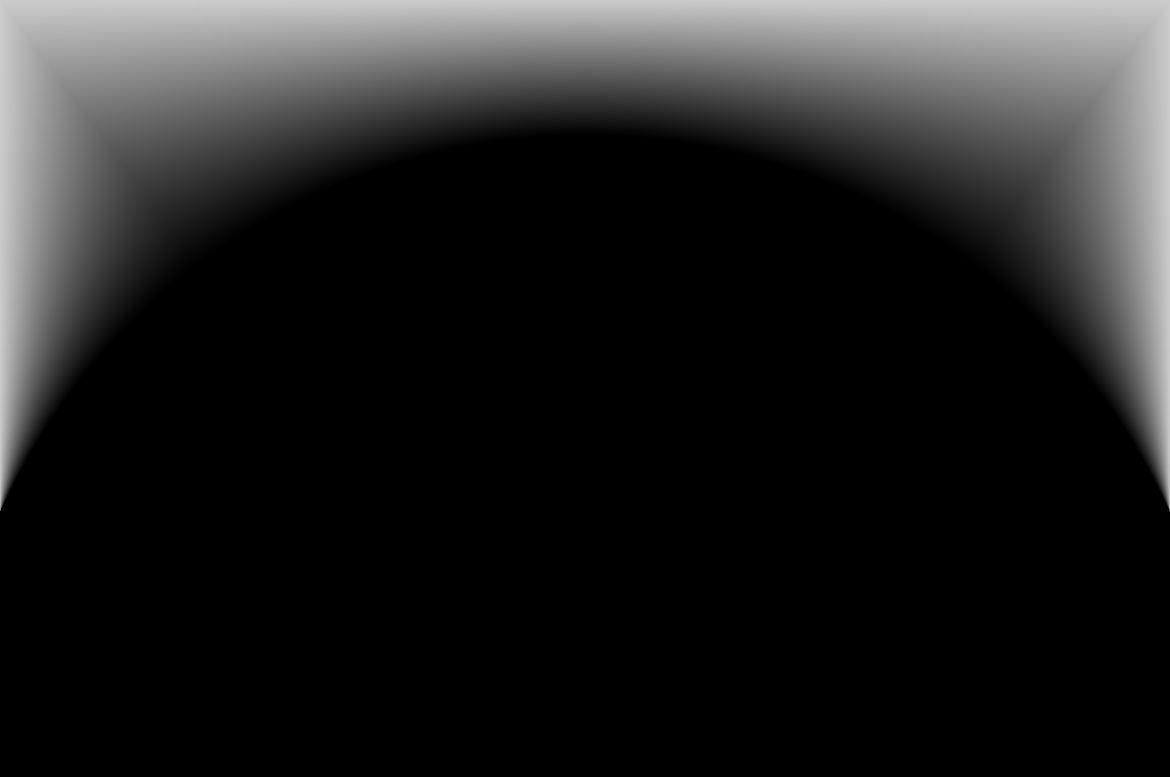
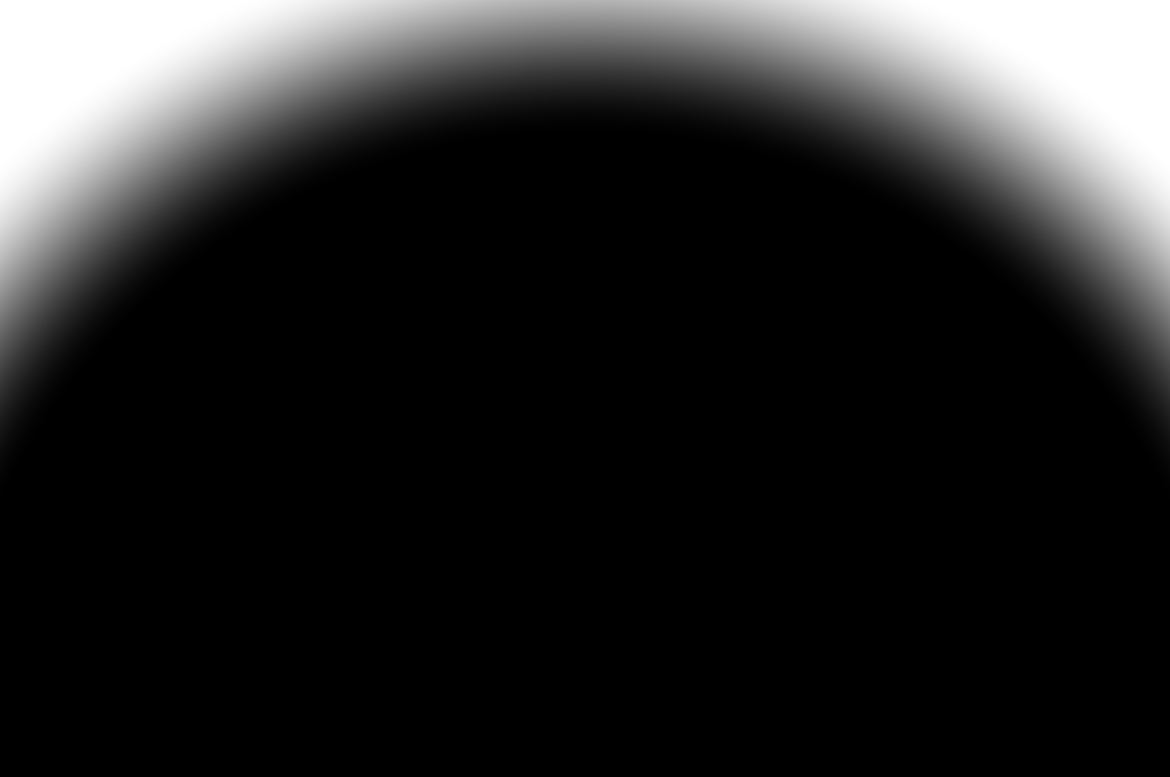
Seal dissolve back to a round arch parallel to the ring, shorter so the photo shows; Turkey Tail What It Is crowd zoomed past the ceiling (#324)
Claude-Session: https://claude.ai/code/session_01MhYC1AY8xeCEEXMzs5T9VR

diff --git a/index.html b/index.html
@@ -1006,7 +1006,7 @@ button,nav,header,h1,h2,h3,h4,h5,h6,label,summary,[role="link"],[role="button"],
 <style>html body [data-ph="lot-lab"]:not(.z1):not(.z2):not(.z3):not(.z4):not(.z5):not(.z6):not(.z7):not(.z8):not(.z9):not(.z10):not(.z11):not(.z12):not(.z13):not(.z14),html body [data-m="wy-split"] > .wy-box:nth-child(3):not(.z1):not(.z2):not(.z3):not(.z4):not(.z5):not(.z6):not(.z7):not(.z8):not(.z9):not(.z10):not(.z11):not(.z12):not(.z13):not(.z14){background:linear-gradient(rgba(5,9,13,.5),rgba(5,9,13,.66)),url("assets/science-art.svg") center / cover no-repeat !important}</style>
 <style>html body [data-ph="desk-lm"]:not(.z1):not(.z2):not(.z3):not(.z4):not(.z5):not(.z6):not(.z7):not(.z8):not(.z9):not(.z10):not(.z11):not(.z12):not(.z13):not(.z14){background:linear-gradient(rgba(0,0,0,.55),rgba(0,0,0,.7)),url("assets/photo/lm-how-made-desk.jpg") center / cover no-repeat !important}[data-ph="vintage-bottles-labels"]:not(.z1):not(.z2):not(.z3):not(.z4):not(.z5):not(.z6):not(.z7):not(.z8):not(.z9):not(.z10):not(.z11):not(.z12):not(.z13):not(.z14){background:linear-gradient(rgba(0,0,0,.6),rgba(0,0,0,.72)),url("assets/photo/vintage-bottles-labels.jpg") center / cover no-repeat !important}html body [data-ph="apothecary-shop"]:not(.z1):not(.z2):not(.z3):not(.z4):not(.z5):not(.z6):not(.z7):not(.z8):not(.z9):not(.z10):not(.z11):not(.z12):not(.z13):not(.z14){background:linear-gradient(rgba(0,0,0,.6),rgba(0,0,0,.72)),url("assets/photo/apothecary-shop.jpg") center / cover no-repeat !important}html body [data-ph="herb-jars-book"]:not(.z1):not(.z2):not(.z3):not(.z4):not(.z5):not(.z6):not(.z7):not(.z8):not(.z9):not(.z10):not(.z11):not(.z12):not(.z13):not(.z14){background:linear-gradient(rgba(0,0,0,.6),rgba(0,0,0,.72)),url("assets/photo/herb-jars-book.jpg") center / cover no-repeat !important}html body [data-ph="mushroom-cabinet"]:not(.z1):not(.z2):not(.z3):not(.z4):not(.z5):not(.z6):not(.z7):not(.z8):not(.z9):not(.z10):not(.z11):not(.z12):not(.z13):not(.z14){background:linear-gradient(rgba(0,0,0,.6),rgba(0,0,0,.72)),url("assets/photo/forest-meditation-yellow.jpg") center / cover no-repeat !important}html body [data-ph="mushroom-jars-lab"]:not(.z1):not(.z2):not(.z3):not(.z4):not(.z5):not(.z6):not(.z7):not(.z8):not(.z9):not(.z10):not(.z11):not(.z12):not(.z13):not(.z14){background:linear-gradient(rgba(0,0,0,.6),rgba(0,0,0,.72)),url("assets/photo/football-team-night.jpg") center 35% / cover no-repeat !important}html body [data-ph="red-hanging-lab"]:not(.z1):not(.z2):not(.z3):not(.z4):not(.z5):not(.z6):not(.z7):not(.z8):not(.z9):not(.z10):not(.z11):not(.z12):not(.z13):not(.z14){background:linear-gradient(rgba(0,0,0,.6),rgba(0,0,0,.72)),url("assets/photo/couple-tent-pourover.jpg") center / cover no-repeat !important}html body [data-ph="lab-people"]:not(.z1):not(.z2):not(.z3):not(.z4):not(.z5):not(.z6):not(.z7):not(.z8):not(.z9):not(.z10):not(.z11):not(.z12):not(.z13):not(.z14){background:linear-gradient(rgba(0,0,0,.6),rgba(0,0,0,.72)),url("assets/photo/lab-people.jpg") center / cover no-repeat !important}html body [data-ph="reactors-lab"]:not(.z1):not(.z2):not(.z3):not(.z4):not(.z5):not(.z6):not(.z7):not(.z8):not(.z9):not(.z10):not(.z11):not(.z12):not(.z13):not(.z14){background:linear-gradient(rgba(0,0,0,.6),rgba(0,0,0,.72)),url("assets/photo/reactors-lab.jpg") center / cover no-repeat !important}html body [data-ph="tank-lab"]:not(.z1):not(.z2):not(.z3):not(.z4):not(.z5):not(.z6):not(.z7):not(.z8):not(.z9):not(.z10):not(.z11):not(.z12):not(.z13):not(.z14){background:linear-gradient(rgba(0,0,0,.6),rgba(0,0,0,.72)),url("assets/photo/tank-lab.jpg") center / cover no-repeat !important}html body [data-ph="river-trees"]:not(.z1):not(.z2):not(.z3):not(.z4):not(.z5):not(.z6):not(.z7):not(.z8):not(.z9):not(.z10):not(.z11):not(.z12):not(.z13):not(.z14){background-image:linear-gradient(rgba(0,0,0,.72),rgba(0,0,0,.8)),url("assets/photo/river-trees.jpg") !important;background-size:100% 100%,cover !important;background-position:center !important;background-repeat:no-repeat !important}html body [data-ph="river-aerial"]:not(.z1):not(.z2):not(.z3):not(.z4):not(.z5):not(.z6):not(.z7):not(.z8):not(.z9):not(.z10):not(.z11):not(.z12):not(.z13):not(.z14){background-image:linear-gradient(rgba(0,0,0,.72),rgba(0,0,0,.8)),url("assets/photo/river-aerial.jpg") !important;background-size:100% 100%,cover !important;background-position:center !important;background-repeat:no-repeat !important}html body [data-ph="bamboo-window-lab"]:not(.z1):not(.z2):not(.z3):not(.z4):not(.z5):not(.z6):not(.z7):not(.z8):not(.z9):not(.z10):not(.z11):not(.z12):not(.z13):not(.z14){background-image:linear-gradient(rgba(0,0,0,.72),rgba(0,0,0,.8)),url("assets/photo/meditation-sunset-hands.jpg") !important;background-size:100% 100%,cover !important;background-position:center !important;background-repeat:no-repeat !important}html body [data-m="why-slate"]:not(.z1):not(.z2):not(.z3):not(.z4):not(.z5):not(.z6):not(.z7):not(.z8):not(.z9):not(.z10):not(.z11):not(.z12):not(.z13):not(.z14){background-image:linear-gradient(rgba(0,0,0,.9),rgba(0,0,0,.94)) !important;background-size:100% 100% !important;background-position:center !important}html body [data-m="wy-split"] > .wy-box:nth-child(3):not(.z1):not(.z2):not(.z3):not(.z4):not(.z5):not(.z6):not(.z7):not(.z8):not(.z9):not(.z10):not(.z11):not(.z12):not(.z13):not(.z14):not(.z15){background:linear-gradient(#05090d,#0b141b) !important}</style>
 <style>@media (max-width:99999px){html body [data-m="hero"] div[style*="aspect-ratio"]{position:relative;z-index:0;isolation:isolate}html body [data-m="hero"] div[style*="aspect-ratio"]::before{content:"";position:absolute;left:50%;top:50%;width:150%;height:150%;transform:translate(-50%,-50%);border-radius:50%;z-index:-1;pointer-events:none;background:radial-gradient(closest-side,rgba(0,0,0,.94) 0,rgba(0,0,0,.92) 40%,rgba(0,0,0,.86) 58%,rgba(0,0,0,.7) 67%,rgba(0,0,0,.35) 80%,rgba(0,0,0,0) 100%)}}</style>
-<style>@media (max-width:99999px){html body section[data-m="hero"]:not(.z1):not(.z2):not(.z3):not(.z4):not(.z5):not(.z6):not(.z7):not(.z8):not(.z9):not(.z10):not(.z11):not(.z12):not(.z13):not(.z14){background-image:radial-gradient(circle at 50% calc(68px + 49vw),#000 0,#000 47.69vw,rgba(0,0,0,0) 49.23vw),linear-gradient(rgba(0,0,0,0) 0,rgba(0,0,0,0) calc(68px + 49vw + 161px),rgba(0,0,0,.25) calc(68px + 49vw + 201px),rgba(0,0,0,.55) calc(68px + 49vw + 236px),rgba(0,0,0,.85) calc(68px + 49vw + 266px),#000 calc(68px + 49vw + 289px),#000 100%),url("assets/photo/seal-halo-phone.png?v=3"),linear-gradient(rgba(0,0,0,.66) 0,rgba(0,0,0,.52) calc(30px + 25vw),rgba(0,0,0,0) calc(68px + 49vw)),radial-gradient(ellipse 230px 200px at 0 0,rgba(0,0,0,.6) 0,rgba(0,0,0,.42) 35%,rgba(0,0,0,.18) 70%,rgba(0,0,0,0) 100%),url("assets/photo/hero-stove-pour-ridge-v10.jpg") !important;background-size:100% 100%,100% 100%,100% calc(68px + 49vw),100% 100%,100% 100%,auto 640px !important;background-position:0 0,0 0,0 0,0 0,0 0,78% -90px !important;background-color:#000 !important;background-repeat:no-repeat !important}}</style>
+<style>@media (max-width:99999px){html body section[data-m="hero"]:not(.z1):not(.z2):not(.z3):not(.z4):not(.z5):not(.z6):not(.z7):not(.z8):not(.z9):not(.z10):not(.z11):not(.z12):not(.z13):not(.z14){background-image:radial-gradient(circle at 50% calc(68px + 49vw),#000 0,#000 47.69vw,rgba(0,0,0,0) 49.23vw),linear-gradient(rgba(0,0,0,0) 0,rgba(0,0,0,0) calc(68px + 49vw + 161px),rgba(0,0,0,.25) calc(68px + 49vw + 201px),rgba(0,0,0,.55) calc(68px + 49vw + 236px),rgba(0,0,0,.85) calc(68px + 49vw + 266px),#000 calc(68px + 49vw + 289px),#000 100%),url("assets/photo/seal-halo-phone.png?v=5"),linear-gradient(rgba(0,0,0,.66) 0,rgba(0,0,0,.52) calc(30px + 25vw),rgba(0,0,0,0) calc(68px + 49vw)),radial-gradient(ellipse 230px 200px at 0 0,rgba(0,0,0,.6) 0,rgba(0,0,0,.42) 35%,rgba(0,0,0,.18) 70%,rgba(0,0,0,0) 100%),url("assets/photo/hero-stove-pour-ridge-v10.jpg") !important;background-size:100% 100%,100% 100%,100% calc(68px + 49vw),100% 100%,100% 100%,auto 640px !important;background-position:0 0,0 0,0 0,0 0,0 0,78% -90px !important;background-color:#000 !important;background-repeat:no-repeat !important}}</style>
 <style>@media (max-width:99999px){html body .hero-cta{display:none !important}html body .hero-panel > .hero-box:nth-child(1){order:1}html body .hero-panel > .hero-pk{order:2}html body .hero-panel > .hero-box:nth-child(2){order:3}html body .hero-pk{display:block !important;border:3px solid #D4A24A;box-sizing:border-box;margin:14px auto 0;height:260px;max-width:560px;width:100%;border-radius:18px}html body [data-m="pk-dup"]{display:none !important}html body .cta-dup{display:flex !important;margin:30px 0 8px}html body section[data-screen-label="Home — mushrooms"]{padding-top:22px !important}html body section[data-m="hero"]{padding-bottom:10px !important}}</style>
 <style>@media (max-width:99999px){
 html body [data-screen-label="Shop"] [data-m="1col"]:has(> article:nth-child(8)){grid-template-columns:repeat(2,minmax(0,1fr)) !important;grid-template-rows:repeat(4,auto) !important;grid-auto-flow:column !important;gap:14px 10px !important;padding:0 8px !important}
@@ -5272,7 +5272,7 @@ html body section.clean-band.rcx-marble h2{color:#1E1A15;text-shadow:none}
 html body section.clean-band.rcx-marble p{color:#2E2820;text-shadow:none}
 html body section.clean-band.rcx-marble .cb-chips span{color:#1E1A15;background:rgba(255,255,255,.55)}
 html body section.clean-band.rcx-marble{-webkit-mask-image:linear-gradient(transparent 0,#000 60px,#000 calc(100% - 60px),transparent 100%);mask-image:linear-gradient(transparent 0,#000 60px,#000 calc(100% - 60px),transparent 100%)}
-</style><style id="clean-band-photo">html body div[data-screen-label] section.clean-band[data-cb="shop"][data-cb="shop"]{background:linear-gradient(rgba(0,0,0,.42),rgba(0,0,0,.62)),url("assets/photo/mess-counter-v2.jpg") center/cover no-repeat !important}</style><style id="research-darker">html body [data-screen-label="Shop"]>section[data-m="shop-research"][data-m="shop-research"][data-m="shop-research"]::before{background:linear-gradient(rgba(0,0,0,.9) 0,rgba(0,0,0,.88) 560px,rgba(0,0,0,.78) 900px,rgba(0,0,0,.72) 1200px),url('assets/photo/volcano-fountain.jpg') 50% 40%/140% auto no-repeat !important}</style><style id="clean-band-shop-blend">html body div[data-screen-label] section.clean-band[data-cb="shop"][data-cb="shop"]{margin:-70px 0 -90px !important;z-index:2;padding:110px 22px 120px !important;-webkit-mask-image:linear-gradient(transparent 0,#000 110px,#000 calc(100% - 120px),transparent 100%) !important;mask-image:linear-gradient(transparent 0,#000 110px,#000 calc(100% - 120px),transparent 100%) !important;pointer-events:none}html body div[data-screen-label] section.clean-band[data-cb="shop"] .cb-in{pointer-events:auto}html body div[data-screen-label="Shop"] section[data-m="pack-sec"]{position:relative;z-index:1}</style><style id="tt-whatitis">html body div[data-screen-label="Turkey Tail"] [data-ph="meditation-sunset-hands"]:not(.z1):not(.z2):not(.z3):not(.z4):not(.z5):not(.z6):not(.z7):not(.z8):not(.z9):not(.z10):not(.z11):not(.z12):not(.z13):not(.z14):not(.z15){background:linear-gradient(rgba(0,0,0,.6),rgba(0,0,0,.74)),url("assets/photo/tt-train-crowd.jpg") center 40% / cover no-repeat !important}</style><style id="clean-band-how-small">
+</style><style id="clean-band-photo">html body div[data-screen-label] section.clean-band[data-cb="shop"][data-cb="shop"]{background:linear-gradient(rgba(0,0,0,.42),rgba(0,0,0,.62)),url("assets/photo/mess-counter-v2.jpg") center/cover no-repeat !important}</style><style id="research-darker">html body [data-screen-label="Shop"]>section[data-m="shop-research"][data-m="shop-research"][data-m="shop-research"]::before{background:linear-gradient(rgba(0,0,0,.9) 0,rgba(0,0,0,.88) 560px,rgba(0,0,0,.78) 900px,rgba(0,0,0,.72) 1200px),url('assets/photo/volcano-fountain.jpg') 50% 40%/140% auto no-repeat !important}</style><style id="clean-band-shop-blend">html body div[data-screen-label] section.clean-band[data-cb="shop"][data-cb="shop"]{margin:-70px 0 -90px !important;z-index:2;padding:110px 22px 120px !important;-webkit-mask-image:linear-gradient(transparent 0,#000 110px,#000 calc(100% - 120px),transparent 100%) !important;mask-image:linear-gradient(transparent 0,#000 110px,#000 calc(100% - 120px),transparent 100%) !important;pointer-events:none}html body div[data-screen-label] section.clean-band[data-cb="shop"] .cb-in{pointer-events:auto}html body div[data-screen-label="Shop"] section[data-m="pack-sec"]{position:relative;z-index:1}</style><style id="tt-whatitis">html body div[data-screen-label="Turkey Tail"] [data-ph="meditation-sunset-hands"]:not(.z1):not(.z2):not(.z3):not(.z4):not(.z5):not(.z6):not(.z7):not(.z8):not(.z9):not(.z10):not(.z11):not(.z12):not(.z13):not(.z14):not(.z15){background:linear-gradient(rgba(0,0,0,.6),rgba(0,0,0,.74)),url("assets/photo/tt-train-crowd.jpg") 63% 100% / auto 142% no-repeat !important}</style><style id="clean-band-how-small">
 /* How To Use: a small Clean, No Mess box so the paddler behind keeps running down the page */
 html body div[data-screen-label] section.clean-band[data-cb="how"][data-cb="how"]{background:transparent !important;-webkit-mask-image:none !important;mask-image:none !important;padding:26px 28px 30px !important}
 html body div[data-screen-label] section.clean-band[data-cb="how"] .cb-in{max-width:300px;margin:0 auto;padding:22px 18px 20px;gap:9px;border:3px solid #D4A24A;border-radius:18px;box-shadow:0 10px 26px rgba(0,0,0,.55);background:linear-gradient(rgba(0,0,0,.42),rgba(0,0,0,.6)),url("assets/photo/mess-swirl.jpg") center/cover no-repeat}
@@ -5490,7 +5490,7 @@ html body [data-screen-label="About"] .ab-grid.ab-grid.ab-grid{padding:0 !import
 <style id="desk-phone">
 /* Oct 12: desktop now uses the phone layout, spread out and scaled up for a big screen */
 @media (min-width:1000px){
-html body section[data-m="hero"]:not(.z1):not(.z2):not(.z3):not(.z4):not(.z5):not(.z6):not(.z7):not(.z8):not(.z9):not(.z10):not(.z11):not(.z12):not(.z13):not(.z14):not(.z15):not(.z16):not(.z17):not(.z18):not(.z19)::before{content:"";position:absolute;inset:0;pointer-events:none;z-index:0;background:url("assets/photo/seal-halo-desk.png?v=3") 50% 0/1440px 344px no-repeat}
+html body section[data-m="hero"]:not(.z1):not(.z2):not(.z3):not(.z4):not(.z5):not(.z6):not(.z7):not(.z8):not(.z9):not(.z10):not(.z11):not(.z12):not(.z13):not(.z14):not(.z15):not(.z16):not(.z17):not(.z18):not(.z19)::before{content:"";position:absolute;inset:0;pointer-events:none;z-index:0;background:url("assets/photo/seal-halo-desk.png?v=5") 50% 0/1440px 344px no-repeat}
 html body section[data-m="hero"] > *{position:relative;z-index:1}
 html body main{zoom:1.3}
 html body [data-screen-label="About"] .ab-grid .ab-box.ab-box.ab-box{padding-left:max(28px,calc((100% - 64ch) / 2)) !important;padding-right:max(28px,calc((100% - 64ch) / 2)) !important}
